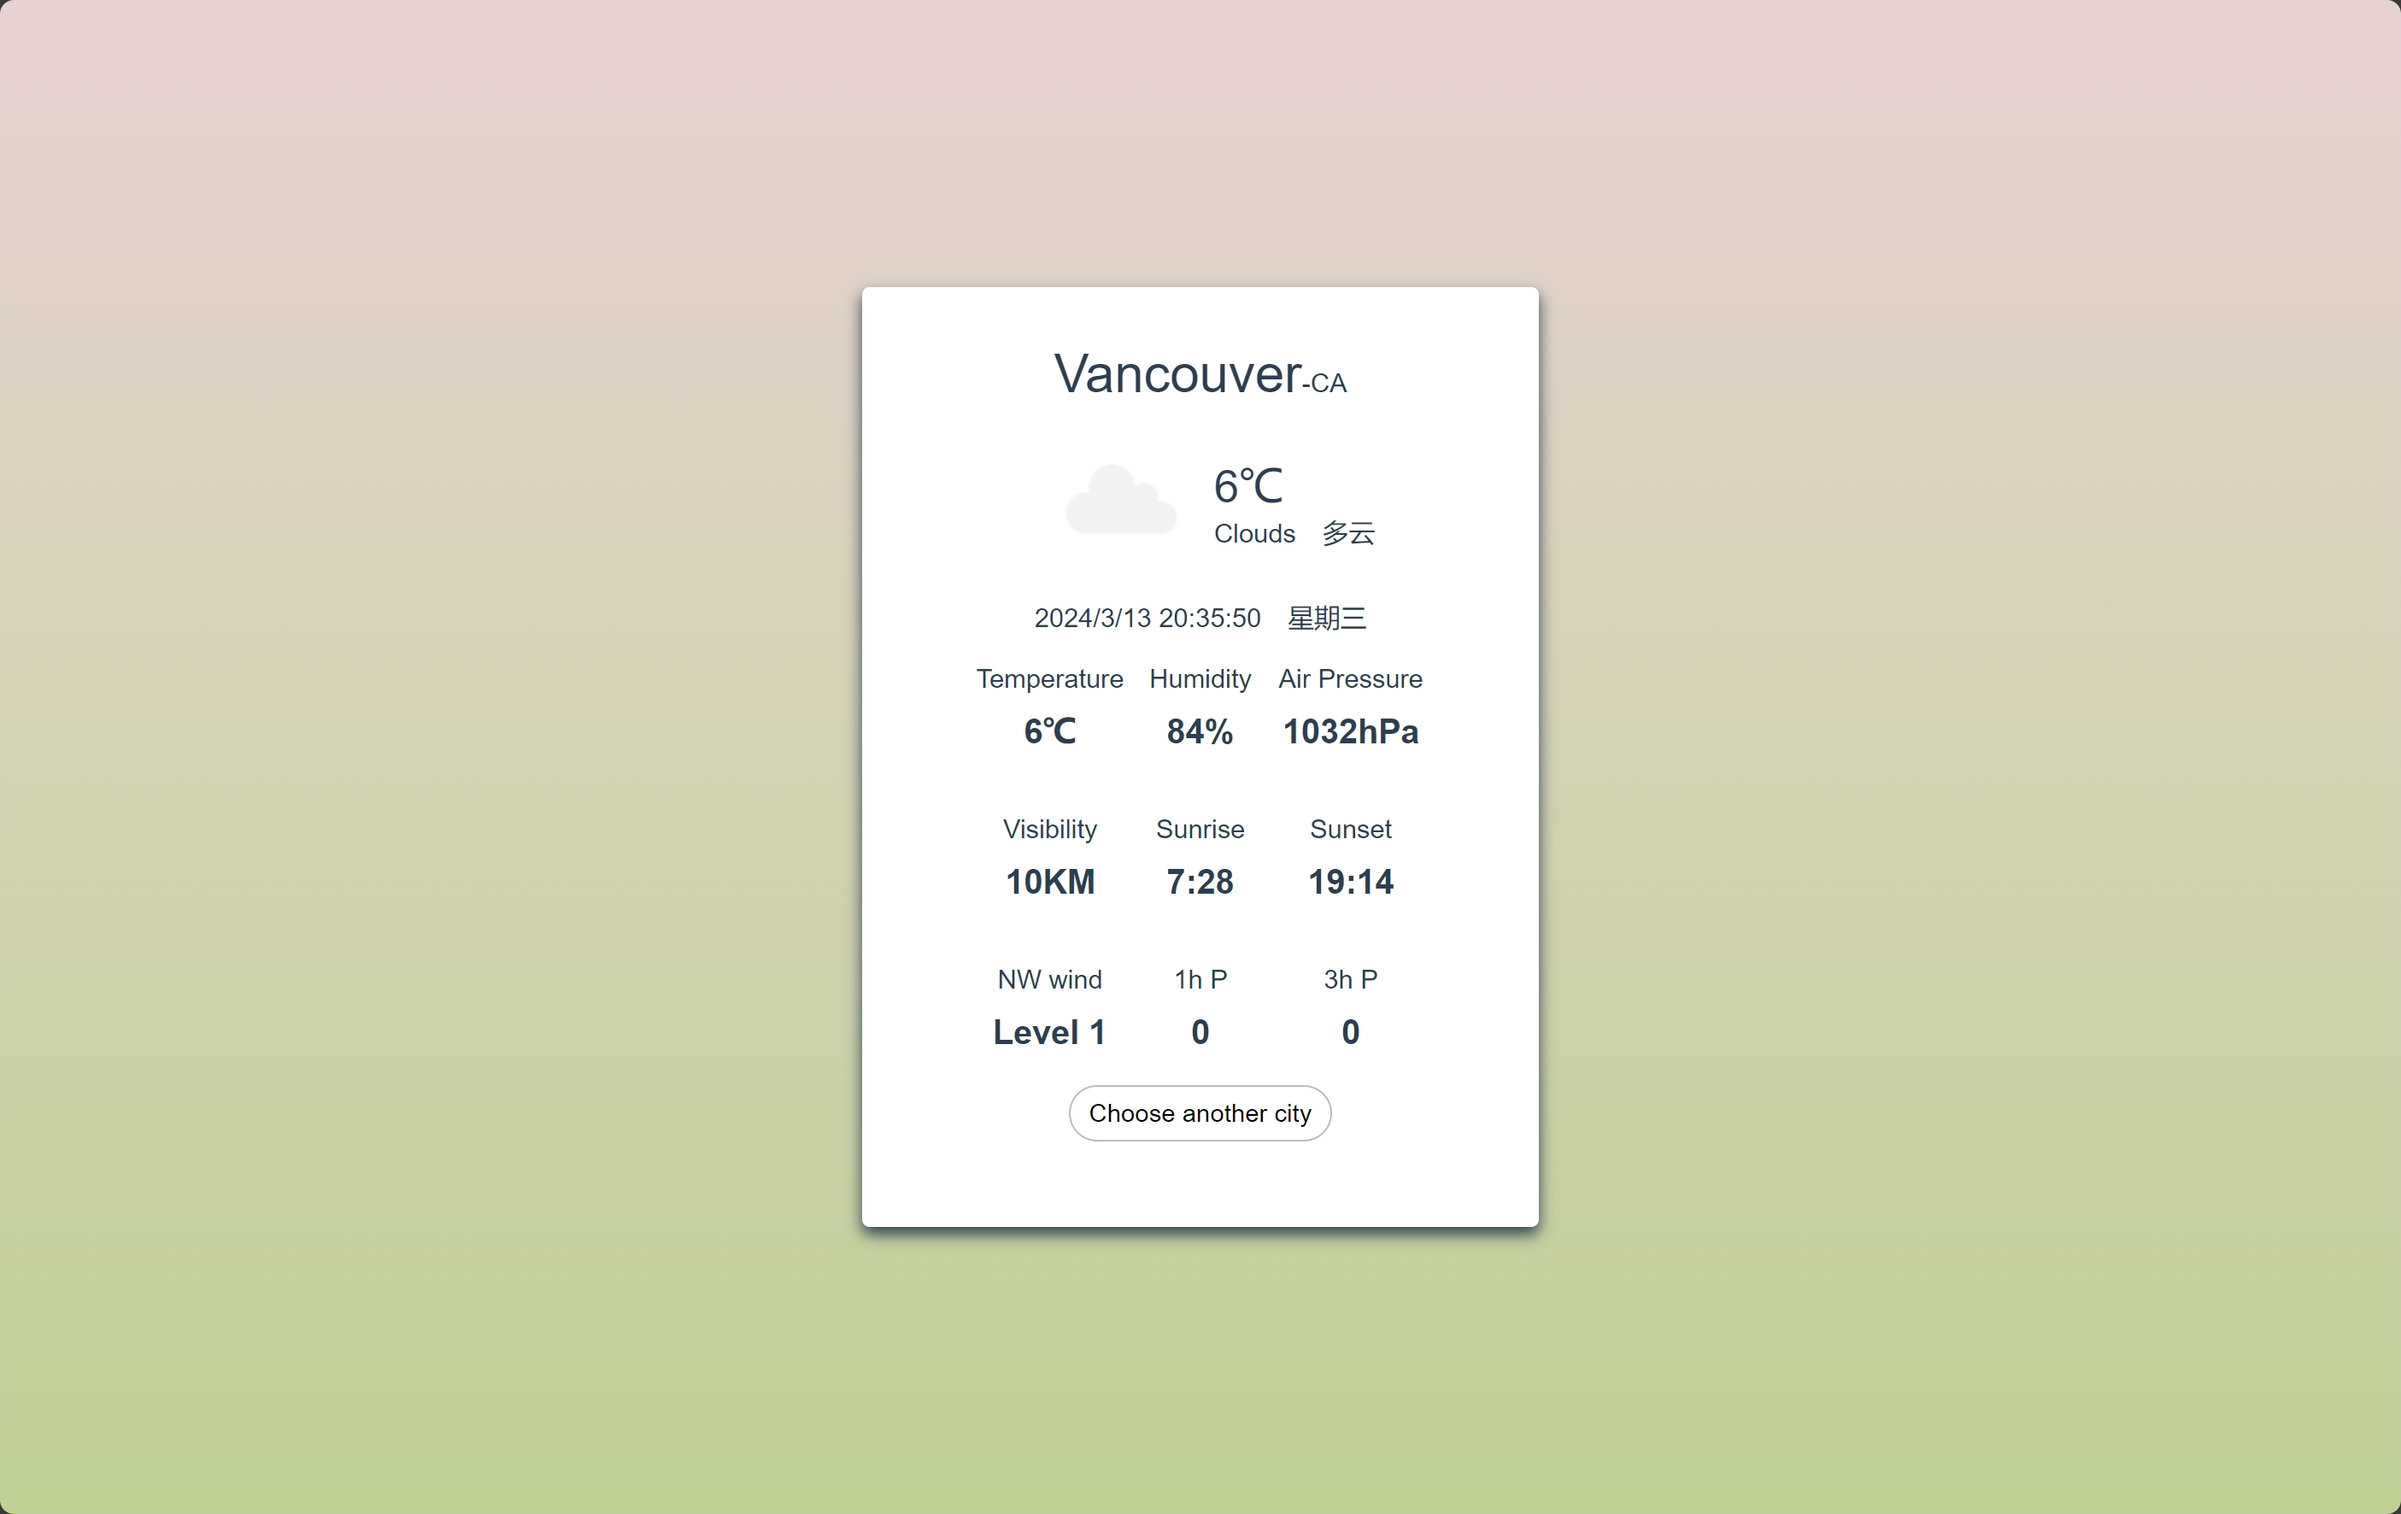
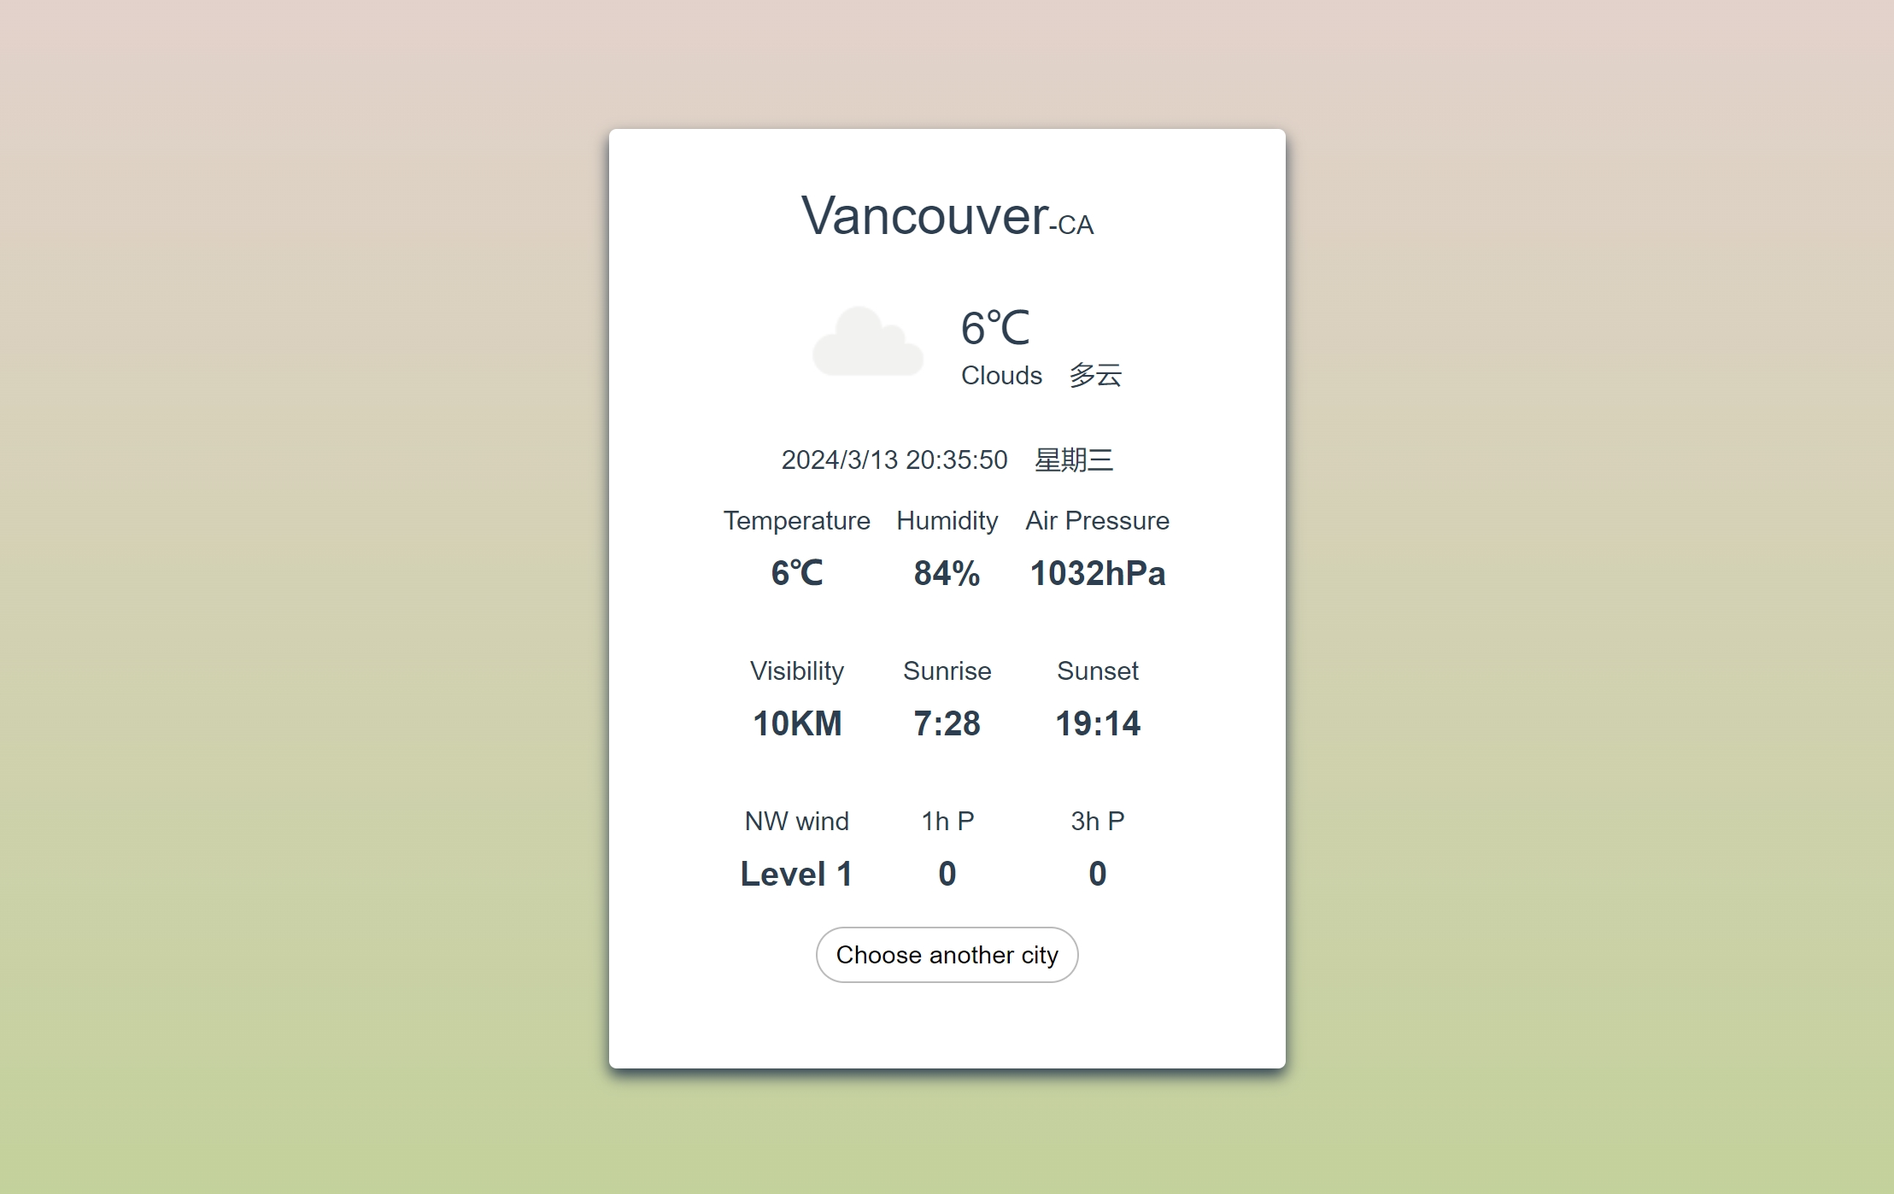
Quartz sync: Apr 17, 2024, 4:30 PM

Changed region(s): [[0.3112, 0.0923, 0.6847, 0.9227], [0.9959, 0.9843, 1.0, 1.0], [0.9959, 0.0, 1.0, 0.0308]]

diff --git a/content/about/projects.md b/content/about/projects.md
@@ -9,9 +9,9 @@ The basic intro and technical stack are provided.
 
 For detailed information you can check the Github link below each project.
 
-
-
 ---
+
+# Web Development
 
 ## Civil Explosive Product Monitoring System
 
@@ -21,7 +21,7 @@ For detailed information you can check the Github link below each project.
 
 A Domain-Driven Design (DDD) architectual patten based system engineered to streamline the monitoring and management of civil explosive products for Sinopec (China Petrochemical Corp). The platform integrates comprehensive functionalities including product registration, tracking, security management, license approval, and inventory control. It serves as a robust digital platform designed to enhance operational efficiencies and compliance oversight.
 
-Stack: React, ASP.NET (C#), ABP Framework, MS SQL Server, RESTful APIs, GitLab Actions.
+Stack: React, ASP.NET (C#), ABP Framework, MS SQL Server, RESTful APIs, Docker, Kubernetes, GitLab Actions.
 
 ## Festival Planner
 
@@ -31,7 +31,7 @@ Stack: React, ASP.NET (C#), ABP Framework, MS SQL Server, RESTful APIs, GitLab A
 
 A MERN stack web application designed to enhance the festival-going experience for both organizers and attendees. Acting as a comprehensive hub, it offers real-time updates and personalized planning tools tailored to various large-scale events, including music festivals, conventions, and carnivals.
 
-** Stack: React, NodeJS, Express, MongoDB, Docker, GCP, Web Socket, GitLab Actions    
+Stack: React, NodeJS, Express, MongoDB, Docker, GCP, Web Socket, GitLab Actions    
 
 <a target="_blank" href="https://github.com/wha61/FestivalPlanner-MERNstack">GitHub</a>&emsp;
 <a target="_blank" href="http://47.120.67.126:3000/">Demo</a>
@@ -56,7 +56,7 @@ Stack: Angular, Bootstrap, ChartJS.
 <a target="_blank" href="https://github.com/wha61/Covid-19-DataViewerCanada">GitHub</a>&emsp;
 <a target="_blank" href="http://47.120.67.126:81/">Demo</a>
 
-## Chatroom 1.0
+## Chatroom beta
 
 <div style="position: relative; width: 100%; padding-bottom: 56.25%;">
   <iframe src="chatroom.html" style="position: absolute; top: 0; left: 0; width: 100%; height: 100%;" frameborder="0"></iframe>
@@ -67,15 +67,6 @@ A dynamic and interactive web application designed to facilitate real-time commu
 Stack: React, NodeJs, Express, Socket.io, Encryption.
 
 <a target="_blank" href="https://github.com/wha61/Chatroom">GitHub</a>
-
-## Recipe
-![DEMO](RecipeDemo.gif)
-
-A full stack recipe app using the PEAN stack (PostgreSQL, Express framework, NodeJS, and Angular as the frontend framework), encapsulated in Docker containers for both frontend and backend, and deployed on Docker Hub.
-
-Stack: PostgreSQL, Express, NodeJS, Angular, Docker, Docker Compose
-
-<a target="_blank" href="https://github.com/wha61/Recipe-PEANstack-WebApp">GitHub</a>
 
 ## Weather Forecast
 
@@ -89,6 +80,17 @@ Stack: Vue, OpenWeatherMap API.
 
 <a target="_blank" href="https://github.com/wha61/weatherForecast">GitHub</a>&emsp;
 <a target="_blank" href="http://47.120.67.126:8080/">Demo</a>
+
+## Recipe
+![DEMO](RecipeDemo.gif)
+
+A full stack recipe app using the PEAN stack (PostgreSQL, Express framework, NodeJS, and Angular as the frontend framework), encapsulated in Docker containers for both frontend and backend, and deployed on Docker Hub.
+
+Stack: PostgreSQL, Express, NodeJS, Angular, Docker, Docker Compose
+
+<a target="_blank" href="https://github.com/wha61/Recipe-PEANstack-WebApp">GitHub</a>
+
+# Mobile Development
 
 ## Flame 
 ![[flame.png]]
@@ -114,6 +116,8 @@ Stack: Kotlin, Android SDK, MVVM Design pattern.
 
 <a target="_blank" href="https://github.com/wha61/MyRuns-Fitness-AndroidAPP">GitHub</a>&emsp;
 <a target="_blank" href="https://github.com/wha61/MyRuns-Fitness-AndroidAPP/blob/main/app-debug.apk">Apk Download</a>&emsp;
+
+# OS Development
 
 ## C-Shell
 ![DEMO](cshell.png)

diff --git a/content/blogs/Why is it hard to find job in 2024.md b/content/blogs/Why is it hard to find job in 2024.md
@@ -1,0 +1,3 @@
+# POV: Why is it hard to find job in 2024
+
+https://youtu.be/a6IIhwZv4ls?si=UuGWds8I_zXgAOSM
